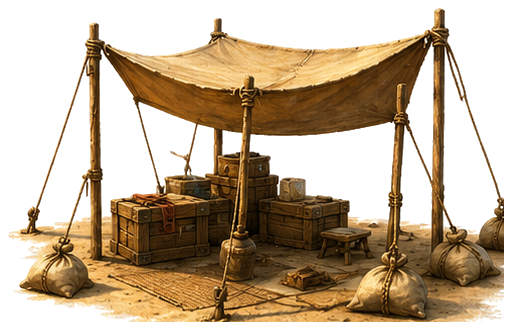
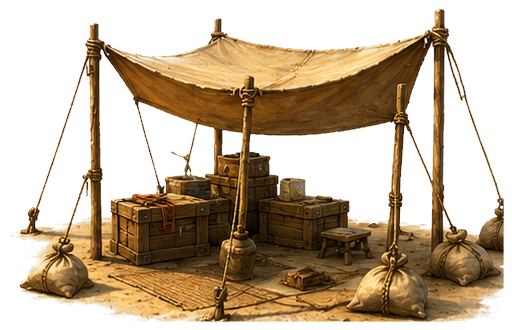
Remove white edging from shade canopy camp prop
The desert-entry shade canopy camp PNG was cut out from a white
background with a hard binary mask, leaving a pale cream wash around
the sand skirt that read as white edging in-game. Added
scripts/strip_prop_white_fringe.py which fades pale low-depth edge
pixels toward transparency (keyed on luminance and distance from the
silhouette) and feathers the 1px hard mask edge, then ran it on the
asset.

diff --git a/scripts/strip_prop_white_fringe.py b/scripts/strip_prop_white_fringe.py
@@ -1,0 +1,95 @@
+"""Remove white/cream fringe from a cut-out prop PNG.
+
+AI-generated props are often cut out from a white background, leaving a
+washed-out ring where the art fades to white at the silhouette edge. This
+fades those pixels out: any opaque pixel that is close to the transparent
+edge, very light, and low-saturation gets its alpha reduced (and its colour
+pulled slightly toward a sand tone so partially-kept pixels don't glow).
+
+Usage:
+    python scripts/strip_prop_white_fringe.py <image.png> [more.png ...]
+
+Overwrites the input file(s); rely on git for the original.
+"""
+
+import sys
+from collections import deque
+
+from PIL import Image
+
+# Effect only applies within this many pixels of a transparent pixel.
+EDGE_BAND = 10
+# Luminance ramp: no effect at/below LUM_LO, full effect at/above LUM_HI.
+# The fringe is pale cream/tan, so it is keyed on lightness alone — dark
+# outlines, poles and ropes at the edge are untouched.
+LUM_LO = 160.0
+LUM_HI = 215.0
+# Colour that partially-faded pixels are pulled toward (mid sand tone).
+SAND = (185, 160, 125)
+# Universal 1px edge feather to anti-alias the hard binary cutout mask.
+FEATHER_ALPHA = 0.6
+
+
+def clamp01(v):
+    return 0.0 if v < 0.0 else 1.0 if v > 1.0 else v
+
+
+def strip_fringe(path):
+    im = Image.open(path).convert("RGBA")
+    w, h = im.size
+    px = im.load()
+
+    # Multi-source BFS: distance from each opaque pixel to nearest transparency.
+    dist = [[EDGE_BAND + 1] * w for _ in range(h)]
+    queue = deque()
+    for y in range(h):
+        for x in range(w):
+            if px[x, y][3] == 0:
+                dist[y][x] = 0
+                queue.append((x, y))
+    while queue:
+        x, y = queue.popleft()
+        d = dist[y][x]
+        if d >= EDGE_BAND:
+            continue
+        for nx, ny in ((x - 1, y), (x + 1, y), (x, y - 1), (x, y + 1)):
+            if 0 <= nx < w and 0 <= ny < h and dist[ny][nx] > d + 1:
+                dist[ny][nx] = d + 1
+                queue.append((nx, ny))
+
+    changed = 0
+    for y in range(h):
+        for x in range(w):
+            d = dist[y][x]
+            r, g, b, a = px[x, y]
+            if a == 0 or d > EDGE_BAND:
+                continue
+            lum = (r + g + b) / 3.0
+            whiteness = clamp01((lum - LUM_LO) / (LUM_HI - LUM_LO))
+            proximity = clamp01((EDGE_BAND + 1 - d) / EDGE_BAND) ** 0.7
+            k = whiteness * proximity
+            if k <= 0.0 and d > 1:
+                continue
+            new_a = int(round(a * (1.0 - k)))
+            if d == 1:
+                new_a = int(round(new_a * FEATHER_ALPHA))
+            # Pull the surviving colour toward sand so the remaining ring
+            # doesn't read as a pale glow.
+            t = k * 0.6
+            px[x, y] = (
+                int(round(r + (SAND[0] - r) * t)),
+                int(round(g + (SAND[1] - g) * t)),
+                int(round(b + (SAND[2] - b) * t)),
+                new_a,
+            )
+            changed += 1
+
+    im.save(path)
+    print(f"{path}: adjusted {changed} px")
+
+
+if __name__ == "__main__":
+    if len(sys.argv) < 2:
+        sys.exit(__doc__)
+    for p in sys.argv[1:]:
+        strip_fringe(p)
